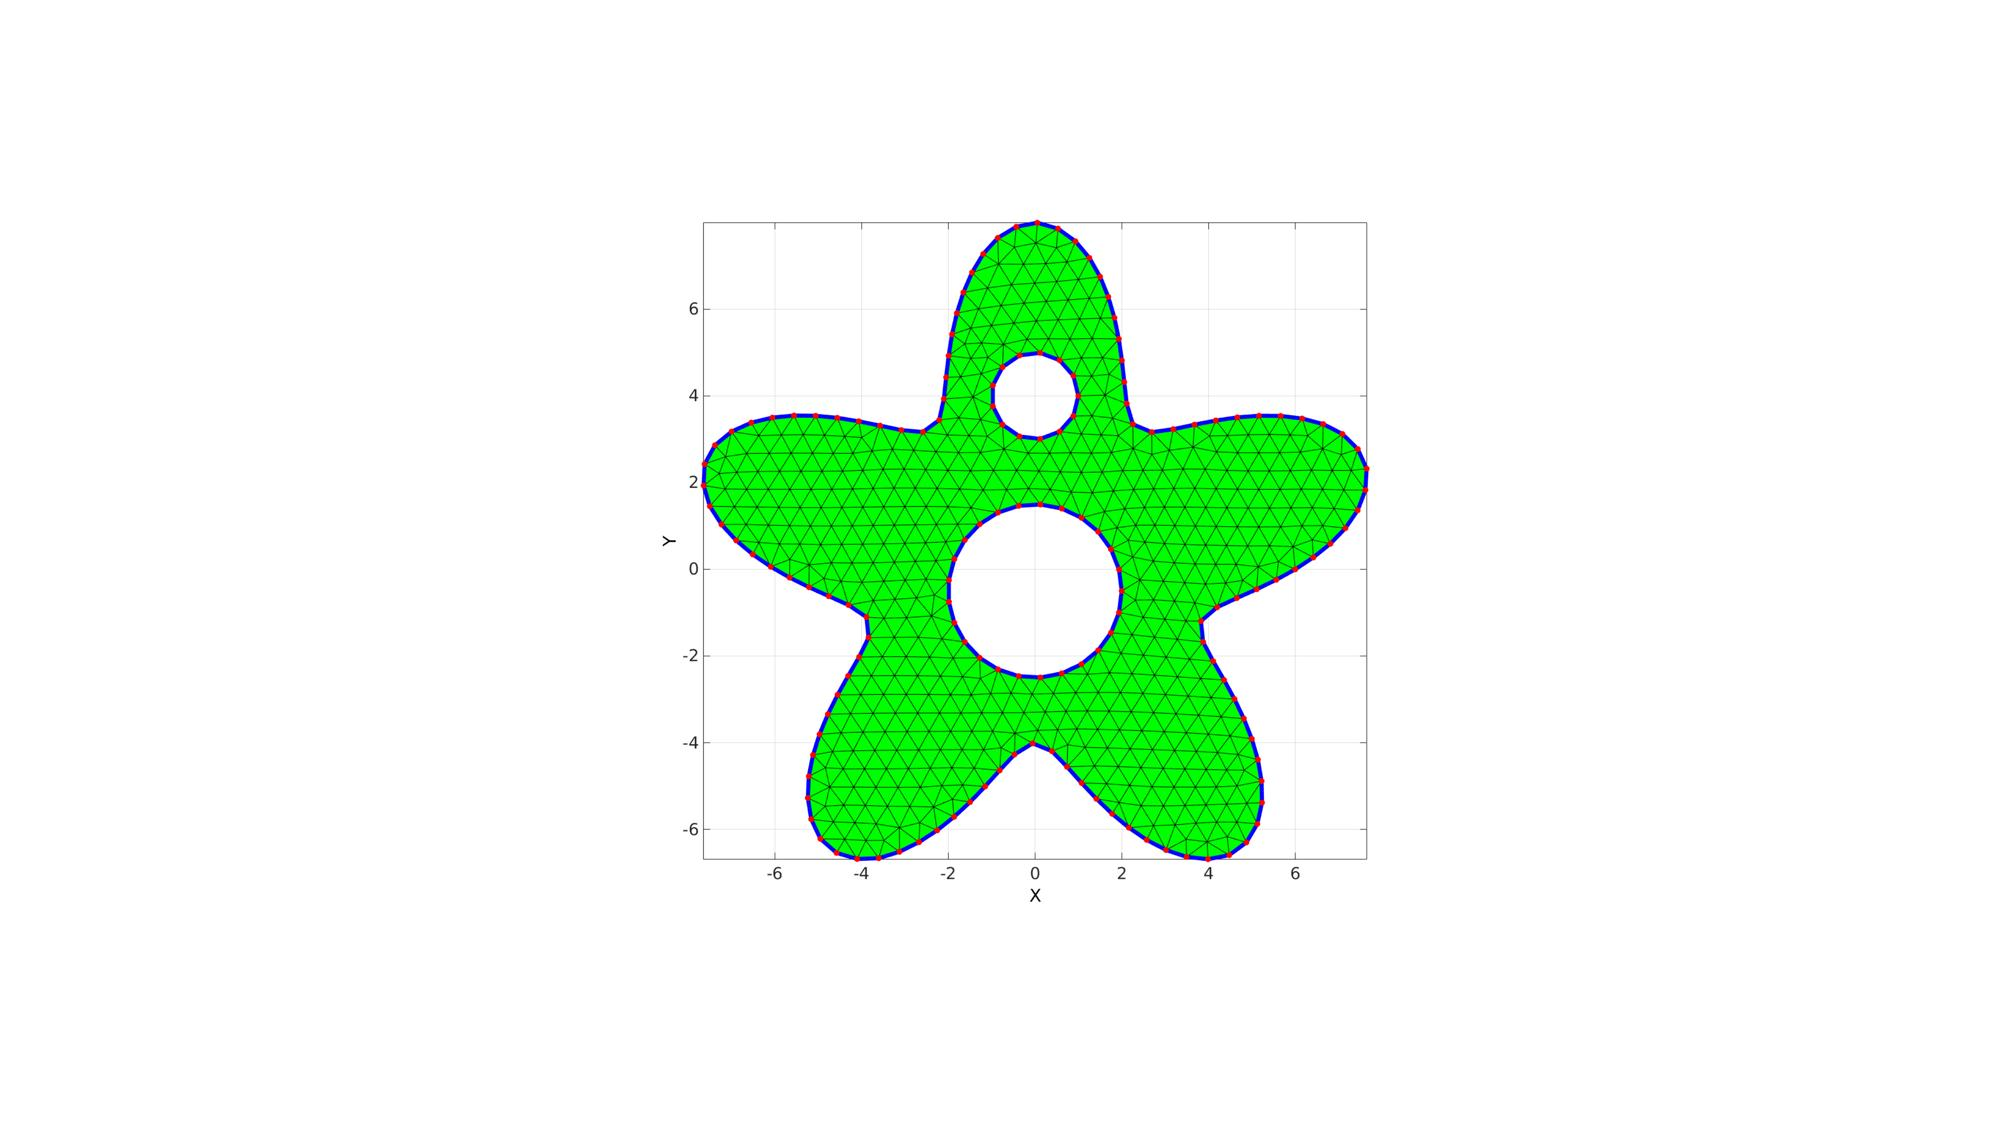
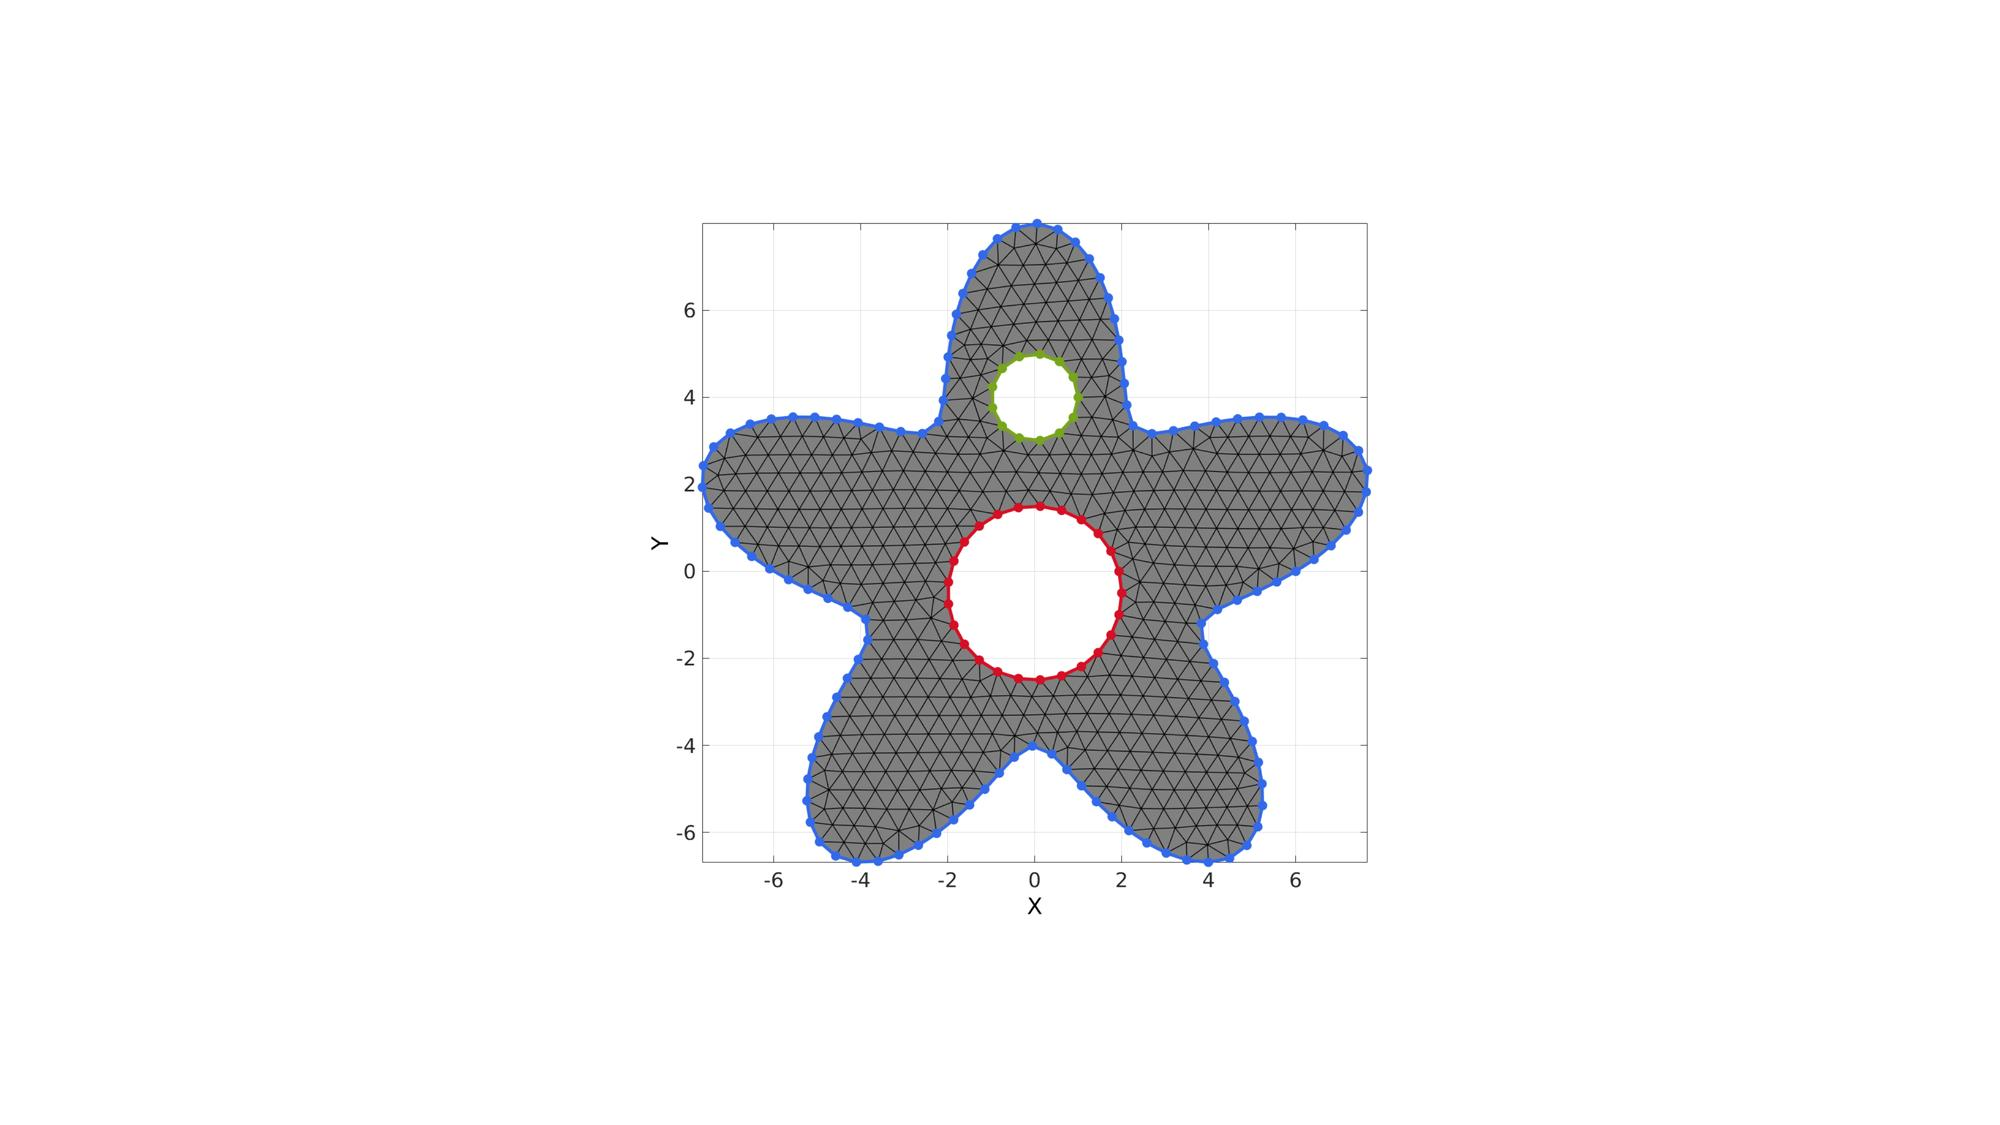
Updated documentation for edgeListToCurve

diff --git a/docs/html/HELP_edgeListToCurve.html b/docs/html/HELP_edgeListToCurve.html
@@ -6,7 +6,7 @@
    <!--
 This HTML was auto-generated from MATLAB code.
 To make changes, update the MATLAB code and republish this document.
-      --><title>edgeListToCurve</title><meta name="generator" content="MATLAB 9.6"><link rel="schema.DC" href="http://purl.org/dc/elements/1.1/"><meta name="DC.date" content="2019-06-03"><meta name="DC.source" content="HELP_edgeListToCurve.m"><style type="text/css">
+      --><title>edgeListToCurve</title><meta name="generator" content="MATLAB 9.6"><link rel="schema.DC" href="http://purl.org/dc/elements/1.1/"><meta name="DC.date" content="2019-06-19"><meta name="DC.source" content="HELP_edgeListToCurve.m"><style type="text/css">
 html,body,div,span,applet,object,iframe,h1,h2,h3,h4,h5,h6,p,blockquote,pre,a,abbr,acronym,address,big,cite,code,del,dfn,em,font,img,ins,kbd,q,s,samp,small,strike,strong,sub,sup,tt,var,b,u,i,center,dl,dt,dd,ol,ul,li,fieldset,form,label,legend,table,caption,tbody,tfoot,thead,tr,th,td{margin:0;padding:0;border:0;outline:0;font-size:100%;vertical-align:baseline;background:transparent}body{line-height:1}ol,ul{list-style:none}blockquote,q{quotes:none}blockquote:before,blockquote:after,q:before,q:after{content:'';content:none}:focus{outine:0}ins{text-decoration:none}del{text-decoration:line-through}table{border-collapse:collapse;border-spacing:0}
 
 html { min-height:100%; margin-bottom:1px; }
@@ -66,10 +66,36 @@ table td { padding:7px 5px; text-align:left; vertical-align:top; border:1px soli
 
 
 
-  </style></head><body><div class="content"><h1>edgeListToCurve</h1><!--introduction--><p>Below is a basic demonstration of the features of the <tt>edgeListToCurve</tt> function.</p><!--/introduction--><h2>Contents</h2><div><ul><li><a href="#2">CREATING A REGION MESH</a></li></ul></div><pre class="codeinput">clear; close <span class="string">all</span>; clc;
-</pre><h2 id="2">CREATING A REGION MESH</h2><pre class="codeinput"><span class="comment">% Creating boundary curves</span>
+  </style></head><body><div class="content"><h1>edgeListToCurve</h1><!--introduction--><p>Below is a demonstration of the features of the <tt>edgeListToCurve</tt> function</p><!--/introduction--><h2>Contents</h2><div><ul><li><a href="#2">Syntax</a></li><li><a href="#3">Description</a></li><li><a href="#4">Examples</a></li><li><a href="#6">Getting indices for a single boundary curve</a></li><li><a href="#11">Getting indices for a multiple boundary curves</a></li></ul></div><pre class="codeinput">clear; close <span class="string">all</span>; clc;
+</pre><h2 id="2">Syntax</h2><p><tt>[indList]=edgeListToCurve(E);</tt></p><h2 id="3">Description</h2><p>This function converts the nx2 edges array <tt>E</tt>, which should define a single curve, to an ordered list of mx1 indices <tt>indList</tt> for that curve. Note that iff the edges define a closed curve the first and last indices in the ordered list are the same and therefore repeated.</p><h2 id="4">Examples</h2><p>Plot settings</p><pre class="codeinput">markerSize=40;
+lineWidth=4;
+fontSize=25;
+</pre><h2 id="6">Getting indices for a single boundary curve</h2><p>Creating example geometry</p><pre class="codeinput">t=linspace(0,2*pi,50); t=t(1:end-1); <span class="comment">%Angles</span>
+V1=[cos(t(:)) sin(t(:))];
 
-<span class="comment">%Boundary 1</span>
+<span class="comment">%Desired point spacing</span>
+pointSpacing=0.5;
+
+[F,V]=regionTriMesh2D({V1},pointSpacing,1,0);
+</pre><p>Get boundary edges</p><pre class="codeinput">Eb=patchBoundary(F,V);
+</pre><p>Use <tt>edgeListToCurve</tt> to get curve indices</p><pre class="codeinput">indList=edgeListToCurve(Eb);
+</pre><p>Visualize example mesh and boundary edges/curves</p><pre class="codeinput">cFigure;
+subplot(1,2,1); hold <span class="string">on</span>;
+title(<span class="string">'Boundary edges'</span>,<span class="string">'FontSize'</span>,fontSize)
+hp1=gpatch(F,V,<span class="string">'kw'</span>,<span class="string">'k'</span>,1,1);
+hp2=gpatch(Eb,V,<span class="string">'none'</span>,(1:1:size(Eb,1))',1,lineWidth);
+legend([hp1 hp2],{<span class="string">'Mesh'</span>,<span class="string">'Boundary edges'</span>});
+axisGeom(gca,fontSize); view(2);
+
+subplot(1,2,2); hold <span class="string">on</span>;
+title(<span class="string">'Boundary curve'</span>,<span class="string">'FontSize'</span>,fontSize)
+hp1=gpatch(F,V,<span class="string">'kw'</span>,<span class="string">'k'</span>,1,1);
+hp2=plotV(V(indList,:),<span class="string">'r.-'</span>,<span class="string">'MarkerSize'</span>,markerSize,<span class="string">'LineWidth'</span>,lineWidth);
+legend([hp1 hp2],{<span class="string">'Mesh'</span>,<span class="string">'Ordered boundary curve'</span>});
+axisGeom(gca,fontSize); view(2);
+
+drawnow;
+</pre><img width="100%" height="auto" vspace="5" hspace="5" src="HELP_edgeListToCurve_01.jpg" alt=""> <h2 id="11">Getting indices for a multiple boundary curves</h2><p>Creating example geometry with multiple boundary sets</p><pre class="codeinput"><span class="comment">%Boundary 1</span>
 ns=150;
 t=linspace(0,2*pi,ns);
 t=t(1:end-1);
@@ -94,46 +120,98 @@ plotOn=1; <span class="comment">%This turns on/off plotting</span>
 pointSpacing=0.5;
 
 [F,V]=regionTriMesh2D(regionCell,pointSpacing,1,0);
+</pre><p>Get boundary edges</p><pre class="codeinput">Eb=patchBoundary(F,V);
+</pre><p>Use grouping to "seperate" boundary sets</p><pre class="codeinput">optionStruct.outputType=<span class="string">'label'</span>;
+G=tesgroup(Eb,optionStruct);
 </pre><pre class="codeinput">cFigure; hold <span class="string">on</span>;
-gpatch(F,V,<span class="string">'g'</span>);
+gpatch(F,V,<span class="string">'kw'</span>,<span class="string">'k'</span>,1,1);
+axisGeom(gca,fontSize); view(2);
 
-axisGeom; view(2);
-drawnow;
-</pre><img width="100%" height="auto" vspace="5" hspace="5" src="HELP_edgeListToCurve_01.jpg" alt=""> <pre class="codeinput">E=patchBoundary(F,V);
-<span class="comment">% E=E(all(ismember(E,find(V(:,1)&lt;4.15)),2),:);</span>
+plotColors=gjet(max(G(:)));
+<span class="keyword">for</span> q=1:1:max(G(:))
 
-
-<span class="comment">% [indList]=edgeListToCurve(E);</span>
-[G,G_iter]=tesgroup(E);
-
-<span class="keyword">for</span> q=1:1:size(G,2)
-
-    E_now=E(G(:,q),:);
+    E_now=Eb(G==q,:);
 
     plotV(V(E_now,:),<span class="string">'b.'</span>,<span class="string">'markersize'</span>,25);
 
-
     [indListNow]=edgeListToCurve(E_now);
 
-    plotV(V(indListNow,:),<span class="string">'b.-'</span>,<span class="string">'markersize'</span>,25,<span class="string">'lineWidt'</span>,5);
-    <span class="keyword">for</span> w=1:1:numel(indListNow)
-        plotV(V(indListNow(w),:),<span class="string">'r.'</span>,<span class="string">'markersize'</span>,25);
-        drawnow;
-    <span class="keyword">end</span>
+    hp=plotV(V(indListNow,:),<span class="string">'b.-'</span>,<span class="string">'MarkerSize'</span>,markerSize,<span class="string">'LineWidth'</span>,lineWidth);
+    hp.Color=plotColors(q,:);
 
 <span class="keyword">end</span>
+
+drawnow;
 </pre><img width="100%" height="auto" vspace="5" hspace="5" src="HELP_edgeListToCurve_02.jpg" alt=""> <p><img vspace="5" hspace="5" src="gibbVerySmall.gif" alt=""> </p><p><i><b>GIBBON</b></i> <a href="www.gibboncode.org">www.gibboncode.org</a></p><p><i>Kevin Mattheus Moerman</i>, <a href="gibbon.toolbox@gmail.com">gibbon.toolbox@gmail.com</a></p><p><i><b>GIBBON footer text</b></i></p><p>License: <a href="https://github.com/gibbonCode/GIBBON/blob/master/LICENSE">https://github.com/gibbonCode/GIBBON/blob/master/LICENSE</a></p><p>GIBBON: The Geometry and Image-based Bioengineering add-On. A toolbox for image segmentation, image-based modeling, meshing, and finite element analysis.</p><p>Copyright (C) 2019  Kevin Mattheus Moerman</p><p>This program is free software: you can redistribute it and/or modify it under the terms of the GNU General Public License as published by the Free Software Foundation, either version 3 of the License, or (at your option) any later version.</p><p>This program is distributed in the hope that it will be useful, but WITHOUT ANY WARRANTY; without even the implied warranty of MERCHANTABILITY or FITNESS FOR A PARTICULAR PURPOSE.  See the GNU General Public License for more details.</p><p>You should have received a copy of the GNU General Public License along with this program.  If not, see <a href="http://www.gnu.org/licenses/">http://www.gnu.org/licenses/</a>.</p><p class="footer"><br><a href="https://www.mathworks.com/products/matlab/">Published with MATLAB&reg; R2019a</a><br></p></div><!--
 ##### SOURCE BEGIN #####
 %% edgeListToCurve
-% Below is a basic demonstration of the features of the |edgeListToCurve| function.
+% Below is a demonstration of the features of the |edgeListToCurve| function
 
-%% 
-
+%%
 clear; close all; clc;
 
-%% CREATING A REGION MESH
+%% Syntax
+% |[indList]=edgeListToCurve(E);|
 
-% Creating boundary curves 
+%% Description 
+% This function converts the nx2 edges array |E|, which should define a
+% single curve, to an ordered list of mx1 indices |indList| for that curve.
+% Note that iff the edges define a closed curve the first and last indices
+% in the ordered list are the same and therefore repeated. 
+
+%% Examples 
+% 
+
+%%
+% Plot settings
+markerSize=40;
+lineWidth=4;
+fontSize=25;
+
+%% Getting indices for a single boundary curve
+
+%%
+% Creating example geometry
+t=linspace(0,2*pi,50); t=t(1:end-1); %Angles
+V1=[cos(t(:)) sin(t(:))];
+
+%Desired point spacing
+pointSpacing=0.5; 
+
+[F,V]=regionTriMesh2D({V1},pointSpacing,1,0);
+
+%%
+% Get boundary edges
+Eb=patchBoundary(F,V);
+
+%%
+% Use |edgeListToCurve| to get curve indices
+indList=edgeListToCurve(Eb);
+
+%%
+% Visualize example mesh and boundary edges/curves
+
+cFigure; 
+subplot(1,2,1); hold on; 
+title('Boundary edges','FontSize',fontSize)
+hp1=gpatch(F,V,'kw','k',1,1);
+hp2=gpatch(Eb,V,'none',(1:1:size(Eb,1))',1,lineWidth);
+legend([hp1 hp2],{'Mesh','Boundary edges'});
+axisGeom(gca,fontSize); view(2);
+
+subplot(1,2,2); hold on; 
+title('Boundary curve','FontSize',fontSize)
+hp1=gpatch(F,V,'kw','k',1,1);
+hp2=plotV(V(indList,:),'r.-','MarkerSize',markerSize,'LineWidth',lineWidth);
+legend([hp1 hp2],{'Mesh','Ordered boundary curve'});
+axisGeom(gca,fontSize); view(2);
+
+drawnow;
+
+%% Getting indices for a multiple boundary curves
+
+%%
+% Creating example geometry with multiple boundary sets
 
 %Boundary 1
 ns=150;
@@ -162,36 +240,35 @@ pointSpacing=0.5;
 [F,V]=regionTriMesh2D(regionCell,pointSpacing,1,0);
 
 %%
-cFigure; hold on; 
-gpatch(F,V,'g');
-
-axisGeom; view(2);
-drawnow;
+% Get boundary edges
+Eb=patchBoundary(F,V);
 
 %%
-E=patchBoundary(F,V);
-% E=E(all(ismember(E,find(V(:,1)<4.15)),2),:);
+% Use grouping to "seperate" boundary sets
+optionStruct.outputType='label';
+G=tesgroup(Eb,optionStruct);
 
+%%
 
-% [indList]=edgeListToCurve(E);
-[G,G_iter]=tesgroup(E);
+cFigure; hold on;
+gpatch(F,V,'kw','k',1,1);
+axisGeom(gca,fontSize); view(2);
 
-for q=1:1:size(G,2)
+plotColors=gjet(max(G(:)));
+for q=1:1:max(G(:))
         
-    E_now=E(G(:,q),:);
+    E_now=Eb(G==q,:);
 
     plotV(V(E_now,:),'b.','markersize',25);
 
-
     [indListNow]=edgeListToCurve(E_now);
     
-    plotV(V(indListNow,:),'b.-','markersize',25,'lineWidt',5);
-    for w=1:1:numel(indListNow)
-        plotV(V(indListNow(w),:),'r.','markersize',25);
-        drawnow;
-    end
+    hp=plotV(V(indListNow,:),'b.-','MarkerSize',markerSize,'LineWidth',lineWidth);
+    hp.Color=plotColors(q,:);
     
 end
+
+drawnow;
 
 %% 
 %

diff --git a/docs/HELP_edgeListToCurve.m b/docs/HELP_edgeListToCurve.m
@@ -1,13 +1,71 @@
 %% edgeListToCurve
-% Below is a basic demonstration of the features of the |edgeListToCurve| function.
+% Below is a demonstration of the features of the |edgeListToCurve| function
 
-%% 
-
+%%
 clear; close all; clc;
 
-%% CREATING A REGION MESH
+%% Syntax
+% |[indList]=edgeListToCurve(E);|
 
-% Creating boundary curves 
+%% Description 
+% This function converts the nx2 edges array |E|, which should define a
+% single curve, to an ordered list of mx1 indices |indList| for that curve.
+% Note that iff the edges define a closed curve the first and last indices
+% in the ordered list are the same and therefore repeated. 
+
+%% Examples 
+% 
+
+%%
+% Plot settings
+markerSize=40;
+lineWidth=4;
+fontSize=25;
+
+%% Getting indices for a single boundary curve
+
+%%
+% Creating example geometry
+t=linspace(0,2*pi,50); t=t(1:end-1); %Angles
+V1=[cos(t(:)) sin(t(:))];
+
+%Desired point spacing
+pointSpacing=0.5; 
+
+[F,V]=regionTriMesh2D({V1},pointSpacing,1,0);
+
+%%
+% Get boundary edges
+Eb=patchBoundary(F,V);
+
+%%
+% Use |edgeListToCurve| to get curve indices
+indList=edgeListToCurve(Eb);
+
+%%
+% Visualize example mesh and boundary edges/curves
+
+cFigure; 
+subplot(1,2,1); hold on; 
+title('Boundary edges','FontSize',fontSize)
+hp1=gpatch(F,V,'kw','k',1,1);
+hp2=gpatch(Eb,V,'none',(1:1:size(Eb,1))',1,lineWidth);
+legend([hp1 hp2],{'Mesh','Boundary edges'});
+axisGeom(gca,fontSize); view(2);
+
+subplot(1,2,2); hold on; 
+title('Boundary curve','FontSize',fontSize)
+hp1=gpatch(F,V,'kw','k',1,1);
+hp2=plotV(V(indList,:),'r.-','MarkerSize',markerSize,'LineWidth',lineWidth);
+legend([hp1 hp2],{'Mesh','Ordered boundary curve'});
+axisGeom(gca,fontSize); view(2);
+
+drawnow;
+
+%% Getting indices for a multiple boundary curves
+
+%%
+% Creating example geometry with multiple boundary sets
 
 %Boundary 1
 ns=150;
@@ -36,36 +94,35 @@ pointSpacing=0.5;
 [F,V]=regionTriMesh2D(regionCell,pointSpacing,1,0);
 
 %%
-cFigure; hold on; 
-gpatch(F,V,'g');
-
-axisGeom; view(2);
-drawnow;
+% Get boundary edges
+Eb=patchBoundary(F,V);
 
 %%
-E=patchBoundary(F,V);
-% E=E(all(ismember(E,find(V(:,1)<4.15)),2),:);
+% Use grouping to "seperate" boundary sets
+optionStruct.outputType='label';
+G=tesgroup(Eb,optionStruct);
 
+%%
 
-% [indList]=edgeListToCurve(E);
-[G,G_iter]=tesgroup(E);
+cFigure; hold on;
+gpatch(F,V,'kw','k',1,1);
+axisGeom(gca,fontSize); view(2);
 
-for q=1:1:size(G,2)
+plotColors=gjet(max(G(:)));
+for q=1:1:max(G(:))
         
-    E_now=E(G(:,q),:);
+    E_now=Eb(G==q,:);
 
     plotV(V(E_now,:),'b.','markersize',25);
 
-
     [indListNow]=edgeListToCurve(E_now);
     
-    plotV(V(indListNow,:),'b.-','markersize',25,'lineWidt',5);
-    for w=1:1:numel(indListNow)
-        plotV(V(indListNow(w),:),'r.','markersize',25);
-        drawnow;
-    end
+    hp=plotV(V(indListNow,:),'b.-','MarkerSize',markerSize,'LineWidth',lineWidth);
+    hp.Color=plotColors(q,:);
     
 end
+
+drawnow;
 
 %% 
 %

diff --git a/lib/tesgroup.m b/lib/tesgroup.m
@@ -37,7 +37,7 @@ end
 
 %Check optionStruct against default
 defaultOptionStruct.indExclude=[];
-defaultOptionStruct.outputType='array';
+defaultOptionStruct.outputType='array'; %'label'
 [optionStruct]=structComplete(optionStruct,defaultOptionStruct,1); %Complement provided with default if missing or empty
 
 %Get variables from structure
